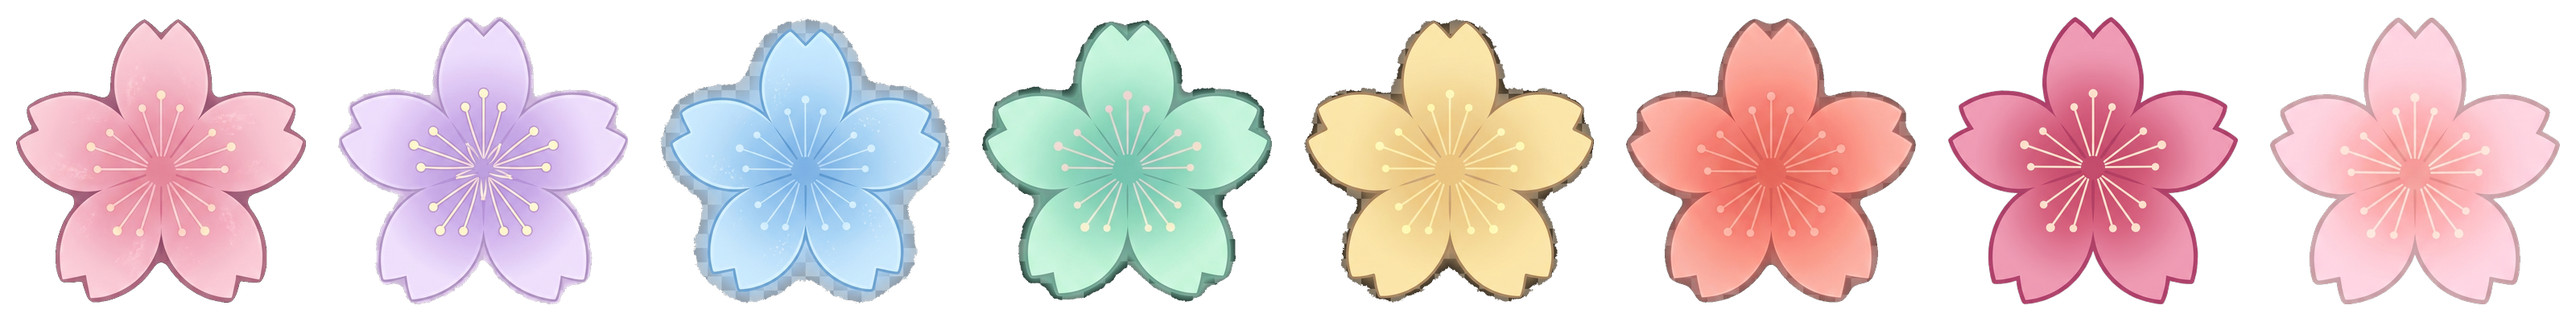
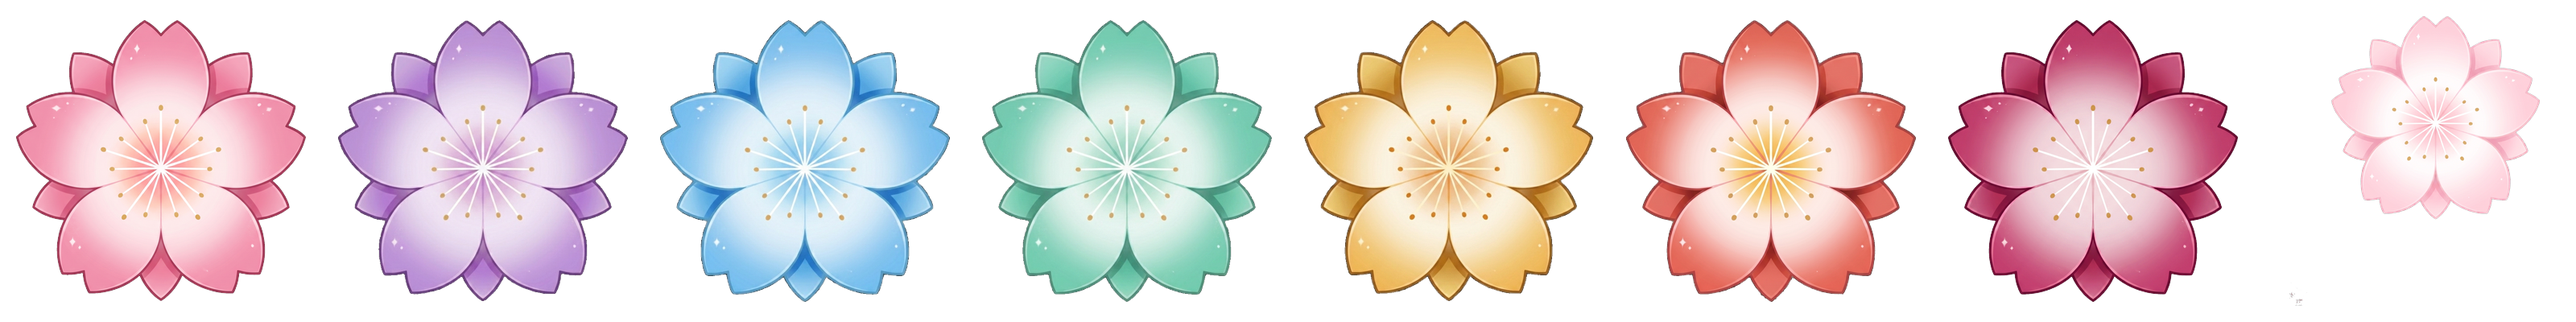
feat: 노트/홀드머리 리듬게임 스타일 재생성 (halo 0, 입체감 ✓)
유저가 제미나이로 8 cells 재작업 (halo 없는 flat 프롬프트 + 01.png reference 매칭):
- _cells/note/01~08.png 신규 수집 (Muse Dash/Cytus II/Arcaea 스타일)
- rose-pink / lilac / light-blue / mint / gold / coral / magenta / pale-pink
- 모든 꽃이 일관된 5-petal 구조 + layered depth + 반짝 하이라이트

rebuild_note_from_cells.py 개선:
- premultiplied alpha resize (Lanczos 리사이즈 시 투명 픽셀 RGB(gray) bleed 방지)
- _cells/note/ 에서 읽도록 경로 변경 (이전 _cells/key_overlay/ 에서)
- SAT_THRESH 25 (보수적 — pastel 꽃 body 보존)

결과 벚꽃_노트.png + 벚꽃_홀드머리.png 덮어쓰기:
- 3200×400, 8 cells × 400×400 uniform
- 360×~350 꽃 bbox 통일 (±1px)
- halo / outer glow / drop shadow 전부 0
- 리듬게임 톤 일관 (pastel neon + sparkle)

diff --git a/index.html b/index.html
@@ -13,7 +13,7 @@
 <script>
 // ★ 빌드 타임스탬프 — 매 index.html 업데이트 시 자동 증가. 업데이트 감지용.
 // diag: gamble revert + 업데이트 감지 진단 강화 (__BUILD_TS 선곡화면 노출)
-window.__BUILD_TS = 20260421033000;
+window.__BUILD_TS = 20260421040000;
 // ★ resumeAudio 탭당 오버헤드 제거 — audioSession 재설정 skip, applyBgmVol 변경시만
 (function(){
   try {

diff --git a/scripts/rebuild_note_from_cells.py b/scripts/rebuild_note_from_cells.py
@@ -13,7 +13,7 @@ from PIL import Image
 import numpy as np
 
 BASE = 'D:/리듬게임/skins/neon/note'
-CELLS_DIR = os.path.join(BASE, '_cells', 'key_overlay')
+CELLS_DIR = os.path.join(BASE, '_cells', 'note')
 OUT_NOTE = os.path.join(BASE, '벚꽃_노트.png')
 OUT_HEAD = os.path.join(BASE, '벚꽃_홀드머리.png')
 
@@ -71,12 +71,26 @@ for i, path in enumerate(files):
     bw = xs.max() - xs.min() + 1
     bh = ys.max() - ys.min() + 1
     # crop tight
-    flower = Image.fromarray(a[by:by+bh, bx:bx+bw])
-    # target 크기 (aspect 유지, 최대 변을 CELL_SIZE*(1-2*PADDING) 에 맞춤)
+    cropped = a[by:by+bh, bx:bx+bw].copy()
+    # ★ premultiplied alpha resize — 투명 영역 RGB(gray) 가 opaque 가장자리로 bleed 하는 것 방지.
+    #   PIL 의 RGBA resize 는 pre-multiply 안 해서 halo 생성. 수동 처리.
+    rgb_f = cropped[:, :, :3].astype(np.float32)
+    alpha_f = cropped[:, :, 3].astype(np.float32) / 255.0
+    premul_rgb = (rgb_f * alpha_f[:, :, np.newaxis]).astype(np.uint8)
+    premul_arr = np.concatenate([premul_rgb, cropped[:, :, 3:4]], axis=2)
+    flower = Image.fromarray(premul_arr)
+    # target 크기 (aspect 유지)
     max_dim = int(CELL_SIZE * (1 - 2 * PADDING))
     scale = min(max_dim / bw, max_dim / bh)
     tw = int(bw * scale); th = int(bh * scale)
     flower = flower.resize((tw, th), Image.LANCZOS)
+    # un-premultiply: RGB = premul_RGB / alpha
+    f_arr = np.array(flower, dtype=np.float32)
+    fa = f_arr[:, :, 3:4]
+    safe_a = np.where(fa > 0, fa, 1)
+    unpremul = (f_arr[:, :, :3] * 255 / safe_a).clip(0, 255).astype(np.uint8)
+    unpremul = np.concatenate([unpremul, f_arr[:, :, 3:4].astype(np.uint8)], axis=2)
+    flower = Image.fromarray(unpremul)
     # 셀 중앙에 paste
     ox = i * CELL_SIZE + (CELL_SIZE - tw) // 2
     oy = (CELL_SIZE - th) // 2
